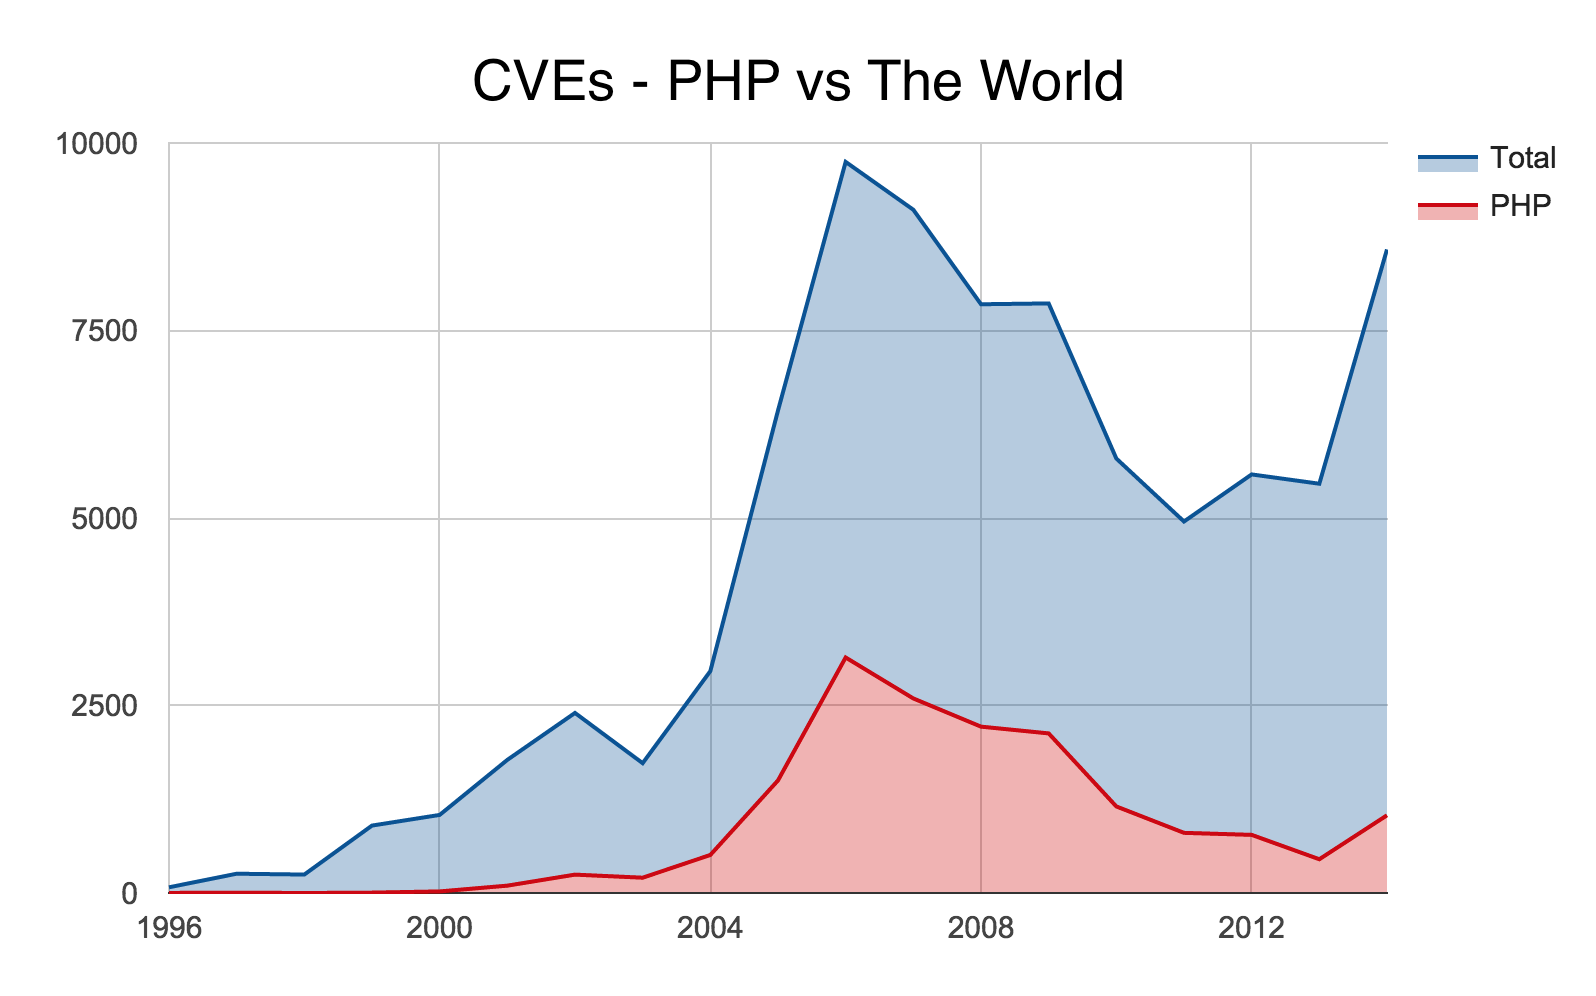
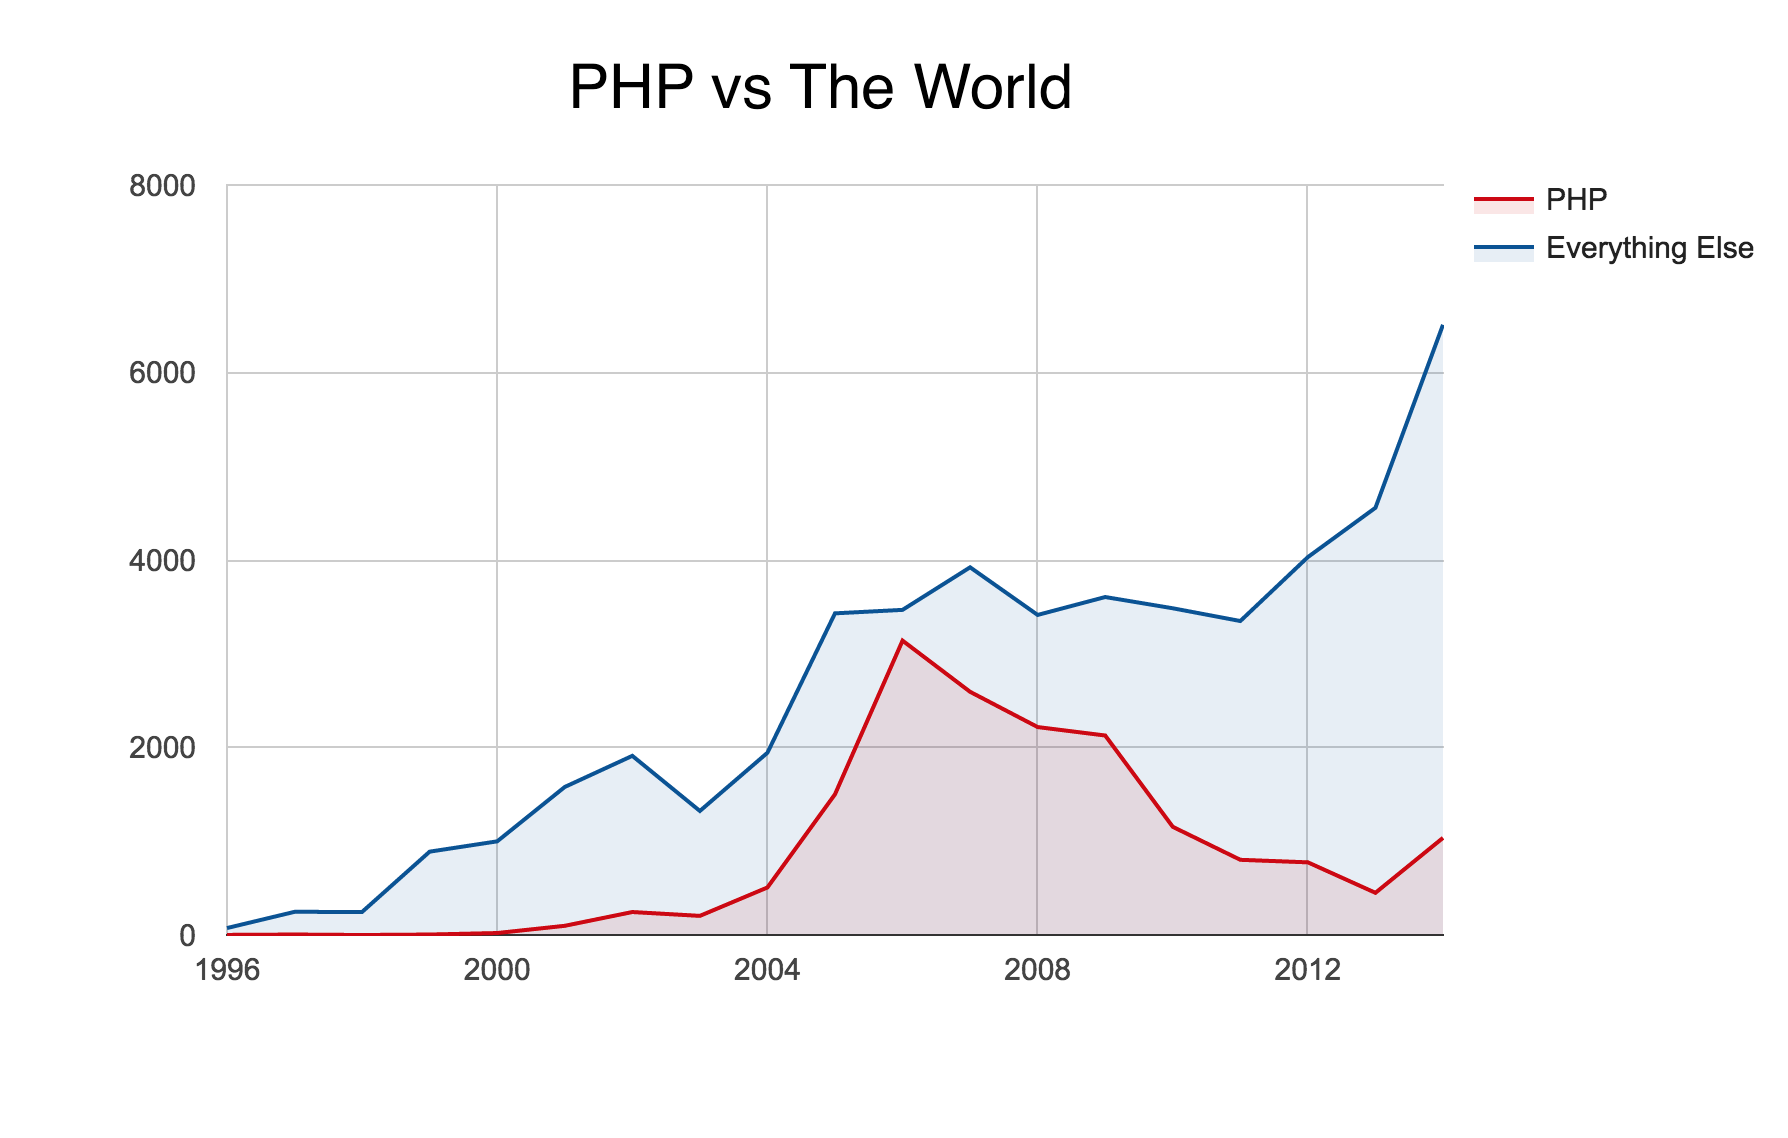
MORE

diff --git a/2015_10_JoomlaDay_Workshop/slides.md b/2015_10_JoomlaDay_Workshop/slides.md
@@ -155,9 +155,6 @@ Drupal the same, but they also have had Drupal 8
 ### Ruby - 2 <!-- .element: class="fragment" -->
 
 <span class="dasfoot"><a href="https://cve.mitre.org">https://cve.mitre.org</a></span>
-Note: Hard to get an exact number for PHP
-At one time, research says it was as high as 25% of all vulns
-http://www.coelho.net/php_cve.html 
 ---
 
 # PHP <!-- .slide: class="center" -->
@@ -167,6 +164,9 @@ http://www.coelho.net/php_cve.html
  <img src="pictures/PHPChart_NoLabels.png" />
 ---
  <img src="pictures/PHPChart_Labels.png" />
+<span class="dasfoot"><a href="http://www.coelho.net/php_cve.html">coelho.net/php_cve.html</a></span>
+Note: Hard to get an exact number for PHP
+At one time, research says it was as high as 25% of all vulns
 
 ---
 # But it's not just<br>your language <!-- .slide: class="center" -->
